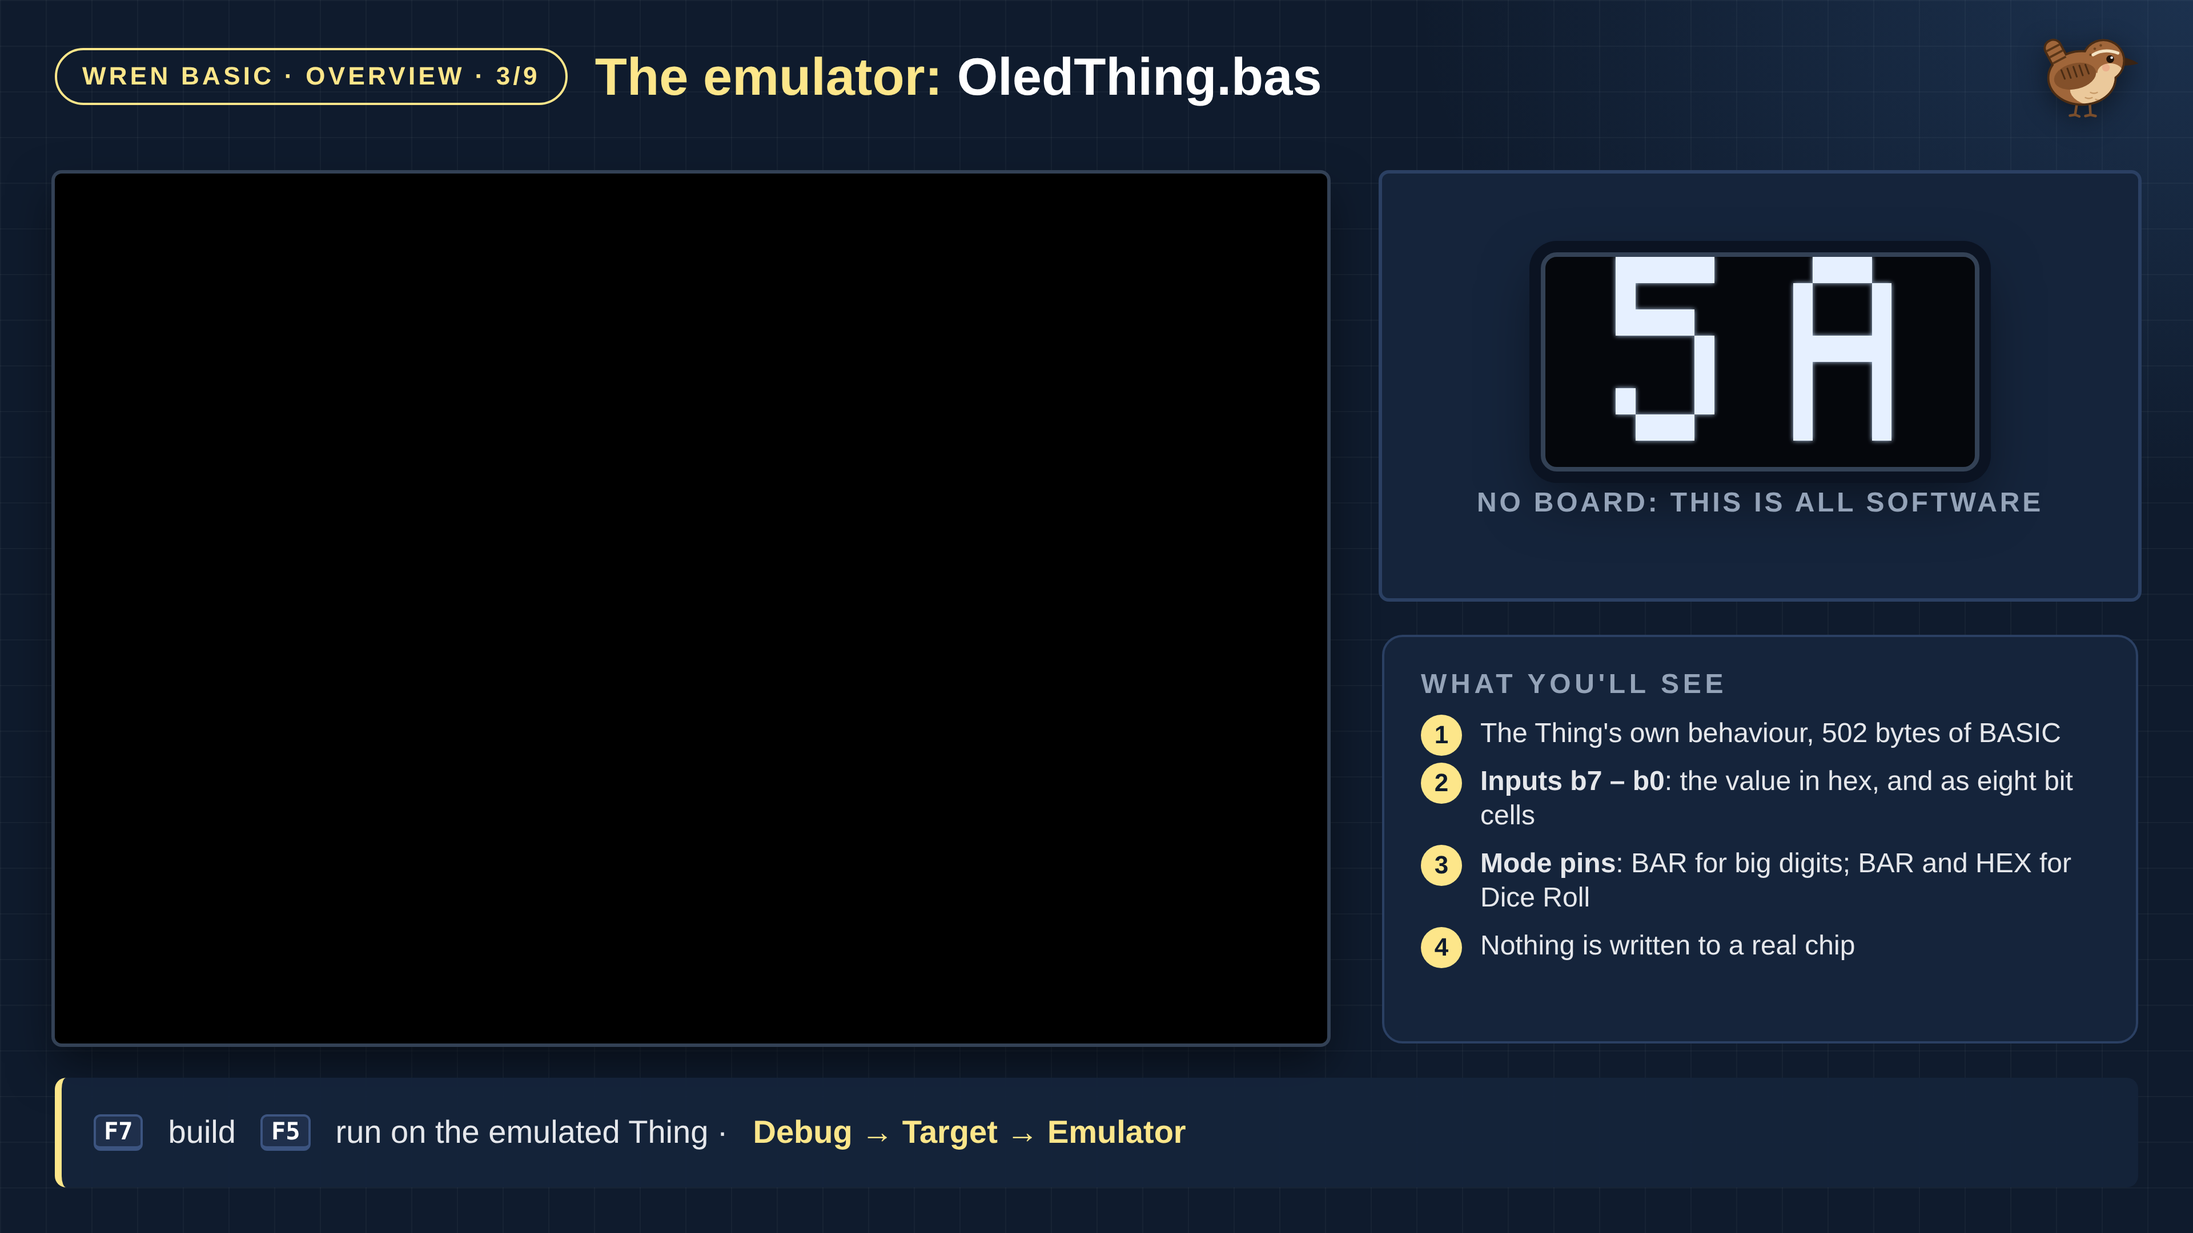
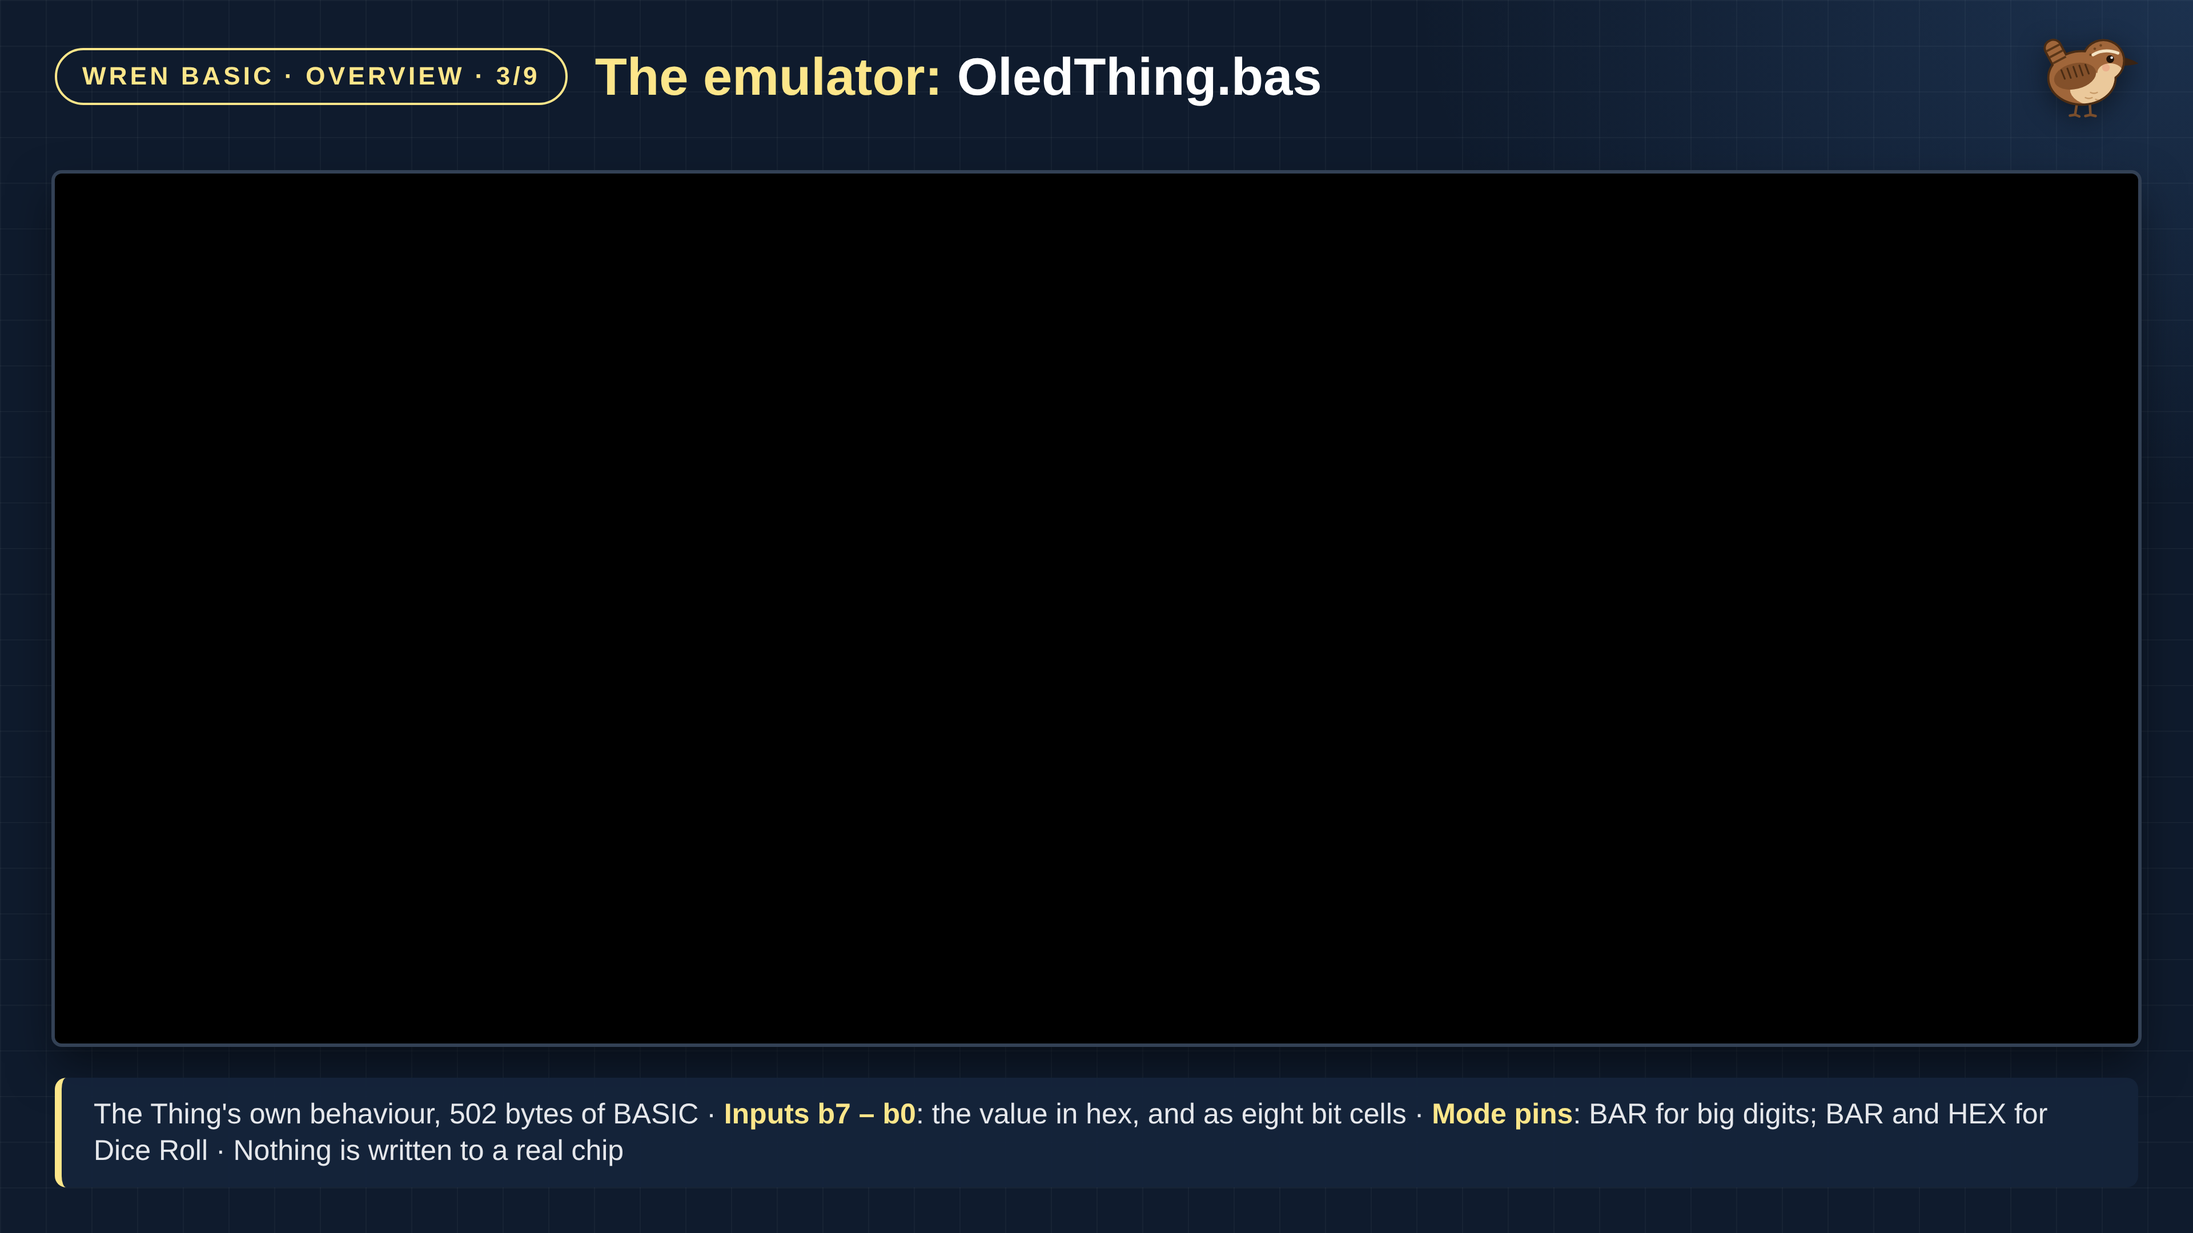
Videos: every emulator-only cut-away has one full-width console frame (videos 1, 3 and 4; the guide)
Claude-Session: https://claude.ai/code/session_01PM169opcHumrd8MpGp9RPP

Changed region(s): [[0.5938, 0.1241, 1.0, 0.8685], [0.0312, 0.8995, 0.9375, 0.9616]]

diff --git a/docs/Videos/Infographics/Wren_01/Wren_01_03b_Emulator.html b/docs/Videos/Infographics/Wren_01/Wren_01_03b_Emulator.html
@@ -2,10 +2,8 @@
 <!--
   Wren BASIC 1, the cut-away after slide 3/9: The emulator. The source of Wren_01_03b_Emulator.png beside it.
 
-  A backdrop for OBS: the Wren window goes in the console frame (48, 152; up to 1114 x 762)
-  and the camera in the camera frame (1210, 152; 662 x 372). The frames are black inside, so
-  a source scaled to fit leaves no border; every backdrop in the set keeps them in place.
-  In the live slideshow it is a page of its own and stands still.
+  A backdrop for OBS, for a scene on the emulator alone: one console frame the full width
+  (48, 152; 1824 x 762), black inside; no camera frame. What to do is in the strip.
 
   To render the PNG in Edge or Chrome: F12, then Ctrl+Shift+M; Responsive, 1920 x 1080; from
   the toolbar's menu "Add device pixel ratio", 2; "Capture screenshot" from the same menu.
@@ -13,8 +11,6 @@
 
   Sources:
     - The scene: docs/Videos/Wren_01_Overview.md.
-    - The screen in the camera frame: the emulator's panel, programs/OledThing/OledThing.bas
-      with the inputs at $5A and BAR low (the big digits).
     - The groups' names (Inputs b7 – b0, Mode pins) and the keys: src/Wren/MainWindow.axaml.
     - 502 bytes: Wren's compiler on programs/OledThing/OledThing.bas.
     - The modes: the program's own opening comment.
@@ -121,9 +117,8 @@
   code { font-family: "DejaVu Sans Mono", Consolas, monospace; color: var(--basic); font-size: 23px; }
   .strip { position: absolute; left: 48px; right: 48px; top: 944px; height: 96px; display: flex; align-items: center; gap: 22px; padding: 0 28px; background: rgba(21, 36, 59, 0.92); border-left: 6px solid var(--gold); border-radius: 10px; font-size: 28px; }
   .strip b { color: var(--gold); }
-  .nocam { display: flex; align-items: center; justify-content: center; flex-direction: column; gap: 14px; background: var(--panel); box-shadow: 0 0 0 3px var(--line); }
-  .nocam .oled { width: 384px; height: 192px; }
-  .nocam span { font-size: 24px; color: var(--muted); letter-spacing: 0.1em; font-weight: 700; }
+  .frame.wide { left: 48px; top: 152px; width: 1824px; height: 762px; }
+  .strip.steps { font-size: 25px; flex-wrap: wrap; gap: 10px 18px; line-height: 1.3; }
 </style>
 </head>
 <body>
@@ -186,15 +181,8 @@
   <circle cx="189.5" cy="102.5" r="3" fill="#FFFFFF" />
  </g>
 </svg><!--/WREN--></div>
-<div class="frame console"></div>
-<div class="frame camera nocam"><div class="oled"><!--OLED:oled_bar--><svg class="px" viewBox="0 0 64 32" shape-rendering="crispEdges"><g><rect x="10" y="0" width="15" height="1"/><rect x="40" y="0" width="9" height="1"/><rect x="10" y="1" width="15" height="1"/><rect x="40" y="1" width="9" height="1"/><rect x="10" y="2" width="15" height="1"/><rect x="40" y="2" width="9" height="1"/><rect x="10" y="3" width="15" height="1"/><rect x="40" y="3" width="9" height="1"/><rect x="10" y="4" width="3" height="1"/><rect x="37" y="4" width="3" height="1"/><rect x="49" y="4" width="3" height="1"/><rect x="10" y="5" width="3" height="1"/><rect x="37" y="5" width="3" height="1"/><rect x="49" y="5" width="3" height="1"/><rect x="10" y="6" width="3" height="1"/><rect x="37" y="6" width="3" height="1"/><rect x="49" y="6" width="3" height="1"/><rect x="10" y="7" width="3" height="1"/><rect x="37" y="7" width="3" height="1"/><rect x="49" y="7" width="3" height="1"/><rect x="10" y="8" width="12" height="1"/><rect x="37" y="8" width="3" height="1"/><rect x="49" y="8" width="3" height="1"/><rect x="10" y="9" width="12" height="1"/><rect x="37" y="9" width="3" height="1"/><rect x="49" y="9" width="3" height="1"/><rect x="10" y="10" width="12" height="1"/><rect x="37" y="10" width="3" height="1"/><rect x="49" y="10" width="3" height="1"/><rect x="10" y="11" width="12" height="1"/><rect x="37" y="11" width="3" height="1"/><rect x="49" y="11" width="3" height="1"/><rect x="22" y="12" width="3" height="1"/><rect x="37" y="12" width="15" height="1"/><rect x="22" y="13" width="3" height="1"/><rect x="37" y="13" width="15" height="1"/><rect x="22" y="14" width="3" height="1"/><rect x="37" y="14" width="15" height="1"/><rect x="22" y="15" width="3" height="1"/><rect x="37" y="15" width="15" height="1"/><rect x="22" y="16" width="3" height="1"/><rect x="37" y="16" width="3" height="1"/><rect x="49" y="16" width="3" height="1"/><rect x="22" y="17" width="3" height="1"/><rect x="37" y="17" width="3" height="1"/><rect x="49" y="17" width="3" height="1"/><rect x="22" y="18" width="3" height="1"/><rect x="37" y="18" width="3" height="1"/><rect x="49" y="18" width="3" height="1"/><rect x="22" y="19" width="3" height="1"/><rect x="37" y="19" width="3" height="1"/><rect x="49" y="19" width="3" height="1"/><rect x="10" y="20" width="3" height="1"/><rect x="22" y="20" width="3" height="1"/><rect x="37" y="20" width="3" height="1"/><rect x="49" y="20" width="3" height="1"/><rect x="10" y="21" width="3" height="1"/><rect x="22" y="21" width="3" height="1"/><rect x="37" y="21" width="3" height="1"/><rect x="49" y="21" width="3" height="1"/><rect x="10" y="22" width="3" height="1"/><rect x="22" y="22" width="3" height="1"/><rect x="37" y="22" width="3" height="1"/><rect x="49" y="22" width="3" height="1"/><rect x="10" y="23" width="3" height="1"/><rect x="22" y="23" width="3" height="1"/><rect x="37" y="23" width="3" height="1"/><rect x="49" y="23" width="3" height="1"/><rect x="13" y="24" width="9" height="1"/><rect x="37" y="24" width="3" height="1"/><rect x="49" y="24" width="3" height="1"/><rect x="13" y="25" width="9" height="1"/><rect x="37" y="25" width="3" height="1"/><rect x="49" y="25" width="3" height="1"/><rect x="13" y="26" width="9" height="1"/><rect x="37" y="26" width="3" height="1"/><rect x="49" y="26" width="3" height="1"/><rect x="13" y="27" width="9" height="1"/><rect x="37" y="27" width="3" height="1"/><rect x="49" y="27" width="3" height="1"/></g><g></g></svg><!--/OLED--></div><span>NO BOARD: THIS IS ALL SOFTWARE</span></div>
-<div class="card see"><h2>WHAT YOU'LL SEE</h2><ol>
-<li>The Thing's own behaviour, 502 bytes of BASIC</li>
-<li><b>Inputs b7 – b0</b>: the value in hex, and as eight bit cells</li>
-<li><b>Mode pins</b>: BAR for big digits; BAR and HEX for Dice Roll</li>
-<li>Nothing is written to a real chip</li>
-</ol></div>
-<div class="strip"><kbd>F7</kbd> build <kbd>F5</kbd> run on the emulated Thing · <b>Debug → Target → Emulator</b></div>
+<div class="frame wide"></div>
+<div class="strip steps"><span>The Thing's own behaviour, 502 bytes of BASIC · <b>Inputs b7 – b0</b>: the value in hex, and as eight bit cells · <b>Mode pins</b>: BAR for big digits; BAR and HEX for Dice Roll · Nothing is written to a real chip</span></div>
 <!--NAV--><a class="nav prev" href="Wren_01_03_WhatFits.html" aria-label="Previous slide"></a><a class="nav next" href="Wren_01_04_Snake.html" aria-label="Next slide"></a><!--/NAV-->
 </body>
 </html>

diff --git a/docs/Videos/Infographics/Wren_04/Wren_04_03b_InsideMove.html b/docs/Videos/Infographics/Wren_04/Wren_04_03b_InsideMove.html
@@ -20,8 +20,8 @@
     - The scene: docs/Videos/Wren_04_Emulator.md. "In Move, 1 call deep": the Now panel's own
       wording (src/Wren/MainWindow.axaml.cs, NowDescription). Stopped on line 64, F11 goes into
       Taken at line 114 (2 calls deep); two F10s later c = 184, cell (29, 5).
-  A backdrop for OBS, for a scene with nothing worth filming: the console frame (48, 152; up to
-  1114 x 762), black inside, as on every backdrop; no camera frame, so the card takes the right.
+  A backdrop for OBS, for a scene on the emulator alone: one console frame the full width
+  (48, 152; 1824 x 762), black inside; no camera frame. What to do is in the strip.
 -->
 <html lang="en">
 <head>
@@ -129,8 +129,8 @@
   code { font-family: "DejaVu Sans Mono", Consolas, monospace; color: var(--basic); font-size: 22px; }
   .strip { position: absolute; left: 48px; right: 48px; top: 944px; height: 96px; display: flex; align-items: center; gap: 22px; padding: 0 28px; background: rgba(21, 36, 59, 0.92); border-left: 6px solid var(--gold); border-radius: 10px; font-size: 28px; }
   .strip b { color: var(--gold); }
-  .see.tall { top: 152px; height: 762px; }
-  .see.tall li { font-size: 27px; margin-bottom: 22px; }
+  .frame.wide { left: 48px; top: 152px; width: 1824px; height: 762px; }
+  .strip.steps { font-size: 25px; flex-wrap: wrap; gap: 10px 18px; line-height: 1.3; }
 </style>
 </head>
 <body>
@@ -193,11 +193,8 @@
   <circle cx="189.5" cy="102.5" r="3" fill="#FFFFFF" />
  </g>
 </svg><!--/WREN--></div>
-<div class="frame console"></div>
-<div class="card see tall"><h2>WHAT YOU'LL SEE</h2><ol>
-<li>A breakpoint on line 68: <code>IF s &lt; bestScore</code></li><li><b>Variables</b>: <code>d</code>, <code>nx</code>, <code>ny</code>, <code>s</code>, <code>best</code></li><li><kbd>F5</kbd>: the next way, the next score</li><li>Line 64, <kbd>F11</kbd>: into <code>Taken</code>; <code>c</code>, the cell</li>
-</ol></div>
-<div class="strip"><b>Now</b> says where: <b>In Move, 1 call deep</b></div>
+<div class="frame wide"></div>
+<div class="strip steps"><span>A breakpoint on line 68: <code>IF s &lt; bestScore</code> · <b>Variables</b>: <code>d</code>, <code>nx</code>, <code>ny</code>, <code>s</code>, <code>best</code> · <kbd>F5</kbd>: the next way, the next score · Line 64, <kbd>F11</kbd>: into <code>Taken</code>; <code>c</code>, the cell</span></div>
 <!--NAV--><a class="nav prev" href="Wren_04_03_Choose.html" aria-label="Previous slide"></a><a class="nav next" href="Wren_04_04_OneBit.html" aria-label="Next slide"></a><!--/NAV-->
 </body>
 </html>

diff --git a/docs/Videos/Infographics/Wren_03/Wren_03_03b_Emulator.html b/docs/Videos/Infographics/Wren_03/Wren_03_03b_Emulator.html
@@ -13,8 +13,8 @@
     - Stopwatch.bas: programs/OledThing/Stopwatch.bas; 348 bytes in 6 blocks, 10 bytes of
       variables (Wren's compiler); its test is DemoTests.TheStopwatchKeepsTimeAndRemembersTheBest.
     - The scene: docs/Videos/Wren_03_Basic.md.
-  A backdrop for OBS, for a scene with nothing worth filming: the console frame (48, 152; up to
-  1114 x 762), black inside, as on every backdrop; no camera frame, so the card takes the right.
+  A backdrop for OBS, for a scene on the emulator alone: one console frame the full width
+  (48, 152; 1824 x 762), black inside; no camera frame. What to do is in the strip.
 -->
 <html lang="en">
 <head>
@@ -122,8 +122,8 @@
   code { font-family: "DejaVu Sans Mono", Consolas, monospace; color: var(--basic); font-size: 22px; }
   .strip { position: absolute; left: 48px; right: 48px; top: 944px; height: 96px; display: flex; align-items: center; gap: 22px; padding: 0 28px; background: rgba(21, 36, 59, 0.92); border-left: 6px solid var(--gold); border-radius: 10px; font-size: 28px; }
   .strip b { color: var(--gold); }
-  .see.tall { top: 152px; height: 762px; }
-  .see.tall li { font-size: 27px; margin-bottom: 22px; }
+  .frame.wide { left: 48px; top: 152px; width: 1824px; height: 762px; }
+  .strip.steps { font-size: 25px; flex-wrap: wrap; gap: 10px 18px; line-height: 1.3; }
 </style>
 </head>
 <body>
@@ -186,11 +186,8 @@
   <circle cx="189.5" cy="102.5" r="3" fill="#FFFFFF" />
  </g>
 </svg><!--/WREN--></div>
-<div class="frame console"></div>
-<div class="card see tall"><h2>WHAT YOU'LL SEE</h2><ol>
-<li><code>Stopwatch.bas</code>, <kbd>F5</kbd></li><li>Pull <b>PD3</b> low and let go: start; again: stop</li><li>The same with <b>PD2</b>: back to 0</li><li>A best time, in the bottom corner</li>
-</ol></div>
-<div class="strip">PD3 and PD2 are the buttons · the best time lives in the <b>EEPROM</b></div>
+<div class="frame wide"></div>
+<div class="strip steps"><span><code>Stopwatch.bas</code>, <kbd>F5</kbd> · Pull <b>PD3</b> low and let go: start; again: stop · The same with <b>PD2</b>: back to 0 · A best time, in the bottom corner</span></div>
 <!--NAV--><a class="nav prev" href="Wren_03_03_Integers.html" aria-label="Previous slide"></a><a class="nav next" href="Wren_03_04_SubFunction.html" aria-label="Next slide"></a><!--/NAV-->
 </body>
 </html>

diff --git a/docs/Videos/Infographics/Wren_04/Wren_04_06b_LastMove.html b/docs/Videos/Infographics/Wren_04/Wren_04_06b_LastMove.html
@@ -12,8 +12,8 @@
   Sources:
     - Snake.bas: programs/OledThing/Snake.bas; 834 bytes in 14 blocks (Wren's compiler).
     - The scene: docs/Videos/Wren_04_Emulator.md.
-  A backdrop for OBS, for a scene with nothing worth filming: the console frame (48, 152; up to
-  1114 x 762), black inside, as on every backdrop; no camera frame, so the card takes the right.
+  A backdrop for OBS, for a scene on the emulator alone: one console frame the full width
+  (48, 152; 1824 x 762), black inside; no camera frame. What to do is in the strip.
 -->
 <html lang="en">
 <head>
@@ -121,8 +121,8 @@
   code { font-family: "DejaVu Sans Mono", Consolas, monospace; color: var(--basic); font-size: 22px; }
   .strip { position: absolute; left: 48px; right: 48px; top: 944px; height: 96px; display: flex; align-items: center; gap: 22px; padding: 0 28px; background: rgba(21, 36, 59, 0.92); border-left: 6px solid var(--gold); border-radius: 10px; font-size: 28px; }
   .strip b { color: var(--gold); }
-  .see.tall { top: 152px; height: 762px; }
-  .see.tall li { font-size: 27px; margin-bottom: 22px; }
+  .frame.wide { left: 48px; top: 152px; width: 1824px; height: 762px; }
+  .strip.steps { font-size: 25px; flex-wrap: wrap; gap: 10px 18px; line-height: 1.3; }
 </style>
 </head>
 <body>
@@ -185,11 +185,8 @@
   <circle cx="189.5" cy="102.5" r="3" fill="#FFFFFF" />
  </g>
 </svg><!--/WREN--></div>
-<div class="frame console"></div>
-<div class="card see tall"><h2>WHAT YOU'LL SEE</h2><ol>
-<li>A breakpoint on line 76: <code>GameOver</code></li><li><kbd>F5</kbd>, and wait for the trap</li><li>The screen: the trap it built</li><li><kbd>F11</kbd>: into <code>GameOver</code></li>
-</ol></div>
-<div class="strip">The wait is cut in the edit · <b>best = −1</b></div>
+<div class="frame wide"></div>
+<div class="strip steps"><span>A breakpoint on line 76: <code>GameOver</code> · <kbd>F5</kbd>, and wait for the trap · The screen: the trap it built · <kbd>F11</kbd>: into <code>GameOver</code></span></div>
 <!--NAV--><a class="nav prev" href="Wren_04_06_CatchEnd.html" aria-label="Previous slide"></a><a class="nav next" href="Wren_04_07_NoBoard.html" aria-label="Next slide"></a><!--/NAV-->
 </body>
 </html>

diff --git a/docs/Videos/Infographics/Wren_04/Wren_04_02b_Snake.html b/docs/Videos/Infographics/Wren_04/Wren_04_02b_Snake.html
@@ -12,8 +12,8 @@
   Sources:
     - Snake.bas: programs/OledThing/Snake.bas; 834 bytes in 14 blocks (Wren's compiler).
     - The scene: docs/Videos/Wren_04_Emulator.md.
-  A backdrop for OBS, for a scene with nothing worth filming: the console frame (48, 152; up to
-  1114 x 762), black inside, as on every backdrop; no camera frame, so the card takes the right.
+  A backdrop for OBS, for a scene on the emulator alone: one console frame the full width
+  (48, 152; 1824 x 762), black inside; no camera frame. What to do is in the strip.
 -->
 <html lang="en">
 <head>
@@ -121,8 +121,8 @@
   code { font-family: "DejaVu Sans Mono", Consolas, monospace; color: var(--basic); font-size: 22px; }
   .strip { position: absolute; left: 48px; right: 48px; top: 944px; height: 96px; display: flex; align-items: center; gap: 22px; padding: 0 28px; background: rgba(21, 36, 59, 0.92); border-left: 6px solid var(--gold); border-radius: 10px; font-size: 28px; }
   .strip b { color: var(--gold); }
-  .see.tall { top: 152px; height: 762px; }
-  .see.tall li { font-size: 27px; margin-bottom: 22px; }
+  .frame.wide { left: 48px; top: 152px; width: 1824px; height: 762px; }
+  .strip.steps { font-size: 25px; flex-wrap: wrap; gap: 10px 18px; line-height: 1.3; }
 </style>
 </head>
 <body>
@@ -185,11 +185,8 @@
   <circle cx="189.5" cy="102.5" r="3" fill="#FFFFFF" />
  </g>
 </svg><!--/WREN--></div>
-<div class="frame console"></div>
-<div class="card see tall"><h2>WHAT YOU'LL SEE</h2><ol>
-<li><code>Snake.bas</code>, <kbd>F5</kbd></li><li>The board column: the OLED, full size</li><li><b>Now</b>: Running</li><li>Nothing is written to a real chip</li>
-</ol></div>
-<div class="strip">The emulator: <b>Debug → Target → Emulator</b></div>
+<div class="frame wide"></div>
+<div class="strip steps"><span><code>Snake.bas</code>, <kbd>F5</kbd> · The board column: the OLED, full size · <b>Now</b>: Running · Nothing is written to a real chip</span></div>
 <!--NAV--><a class="nav prev" href="Wren_04_02_Touch.html" aria-label="Previous slide"></a><a class="nav next" href="Wren_04_03_Choose.html" aria-label="Next slide"></a><!--/NAV-->
 </body>
 </html>

diff --git a/docs/How_We_Make_Videos.md b/docs/How_We_Make_Videos.md
@@ -219,10 +219,13 @@ of them with only the image swapped:
 | console | 48, 152 | up to 1114 × 762 |
 | camera | 1210, 152 | 662 × 372, 16:9 |
 
-**A scene with nothing worth filming** (the emulator, or a scene about
-what Wren's own windows report) leaves the camera frame out: the console
-frame stays where and as big as it always is, and the "what you'll see"
-card takes the whole right-hand column.
+**A scene on the emulator alone** has no camera: its backdrop has one
+console frame the full width of the slide (48, 152; 1824 × 762), and
+what to do goes in the strip beneath it instead of a card. **Any other
+scene with nothing worth filming** (what Wren's own windows report, say)
+leaves the camera frame out too: the console frame stays where and as big
+as it always is, and the "what you'll see" card takes the whole
+right-hand column.
 
 The frames are black inside, so a source scaled to fit leaves no
 border. In an animated set a backdrop is a page in the sequence and
